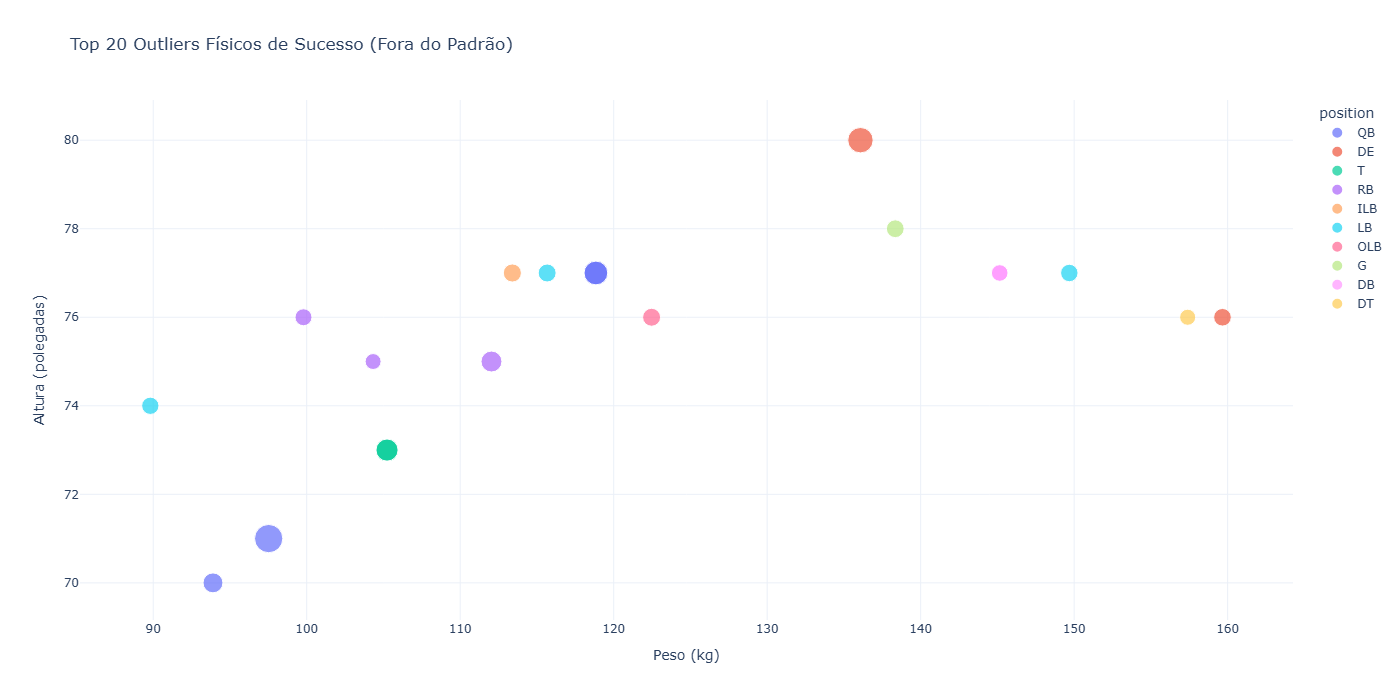
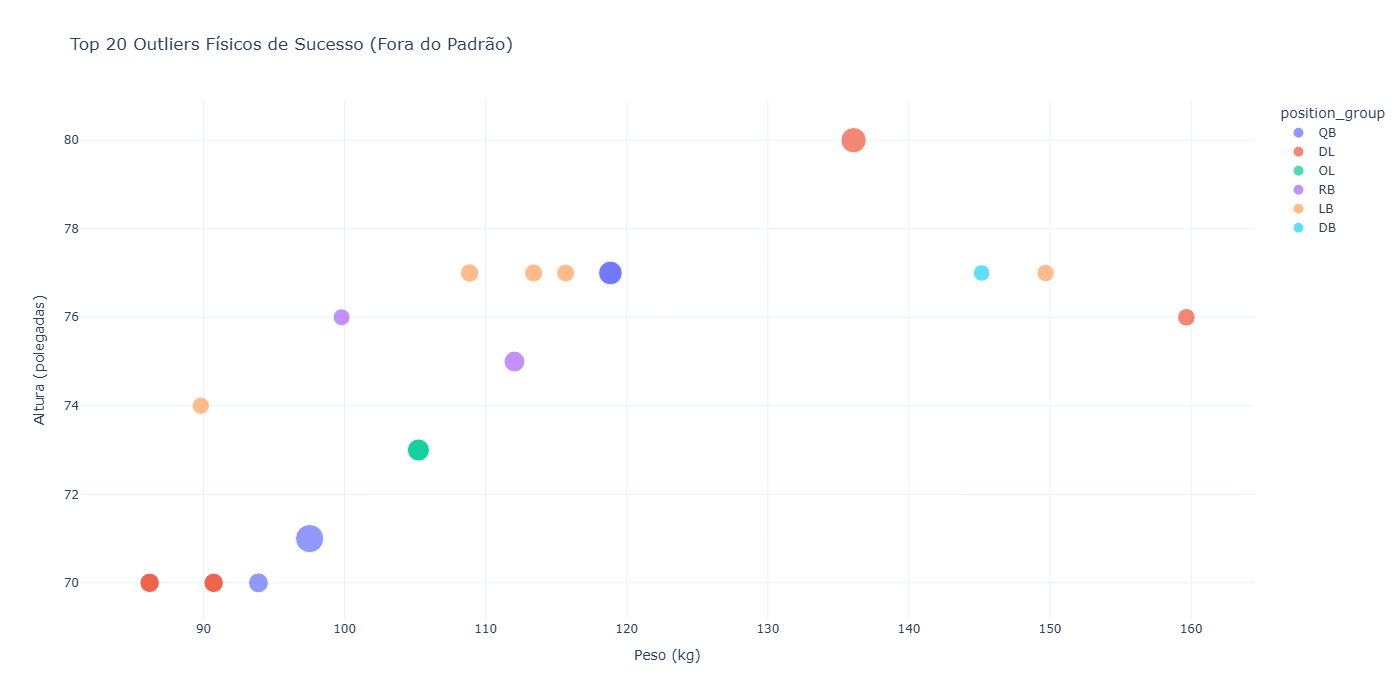
Refactor: Group positions (LB, DB, OL, DL) and update charts

diff --git a/BI/run_analysis.py b/BI/run_analysis.py
@@ -19,31 +19,35 @@ os.makedirs(CHARTS_DIR, exist_ok=True)
 def get_position_group(pos):
     """Maps specific positions to broader groups."""
     groups = {
-        'QB': 'Quarterback',
-        'RB': 'Running Back',
-        'FB': 'Running Back',
-        'WR': 'Receiver',
-        'TE': 'Receiver',
-        'T': 'Lineman',
-        'LT': 'Lineman',
-        'RT': 'Lineman',
-        'G': 'Lineman',
-        'LG': 'Lineman',
-        'RG': 'Lineman',
-        'C': 'Lineman',
-        'DE': 'Lineman',
-        'DT': 'Lineman',
-        'NT': 'Lineman',
-        'LB': 'Linebacker',
-        'ILB': 'Linebacker',
-        'OLB': 'Linebacker',
-        'CB': 'Defensive Back',
-        'S': 'Defensive Back',
-        'FS': 'Defensive Back',
-        'SS': 'Defensive Back',
-        'K': 'Special Teams',
-        'P': 'Special Teams',
-        'LS': 'Special Teams'
+        'QB': 'QB',
+        'RB': 'RB',
+        'FB': 'RB',
+        'WR': 'WR',
+        'TE': 'TE',
+        'T': 'OL',
+        'LT': 'OL',
+        'RT': 'OL',
+        'G': 'OL',
+        'LG': 'OL',
+        'RG': 'OL',
+        'C': 'OL',
+        'OL': 'OL',
+        'DE': 'DL',
+        'DT': 'DL',
+        'NT': 'DL',
+        'DL': 'DL',
+        'LB': 'LB',
+        'ILB': 'LB',
+        'OLB': 'LB',
+        'MLB': 'LB',
+        'CB': 'DB',
+        'S': 'DB',
+        'FS': 'DB',
+        'SS': 'DB',
+        'DB': 'DB',
+        'K': 'ST',
+        'P': 'ST',
+        'LS': 'ST'
     }
     return groups.get(pos, 'Outros')
 
@@ -419,7 +423,7 @@ def generate_position_evolution(df):
     plot_df = df[
         (df['season'].between(2000, 2023)) & 
         (df['weight'].notna()) &
-        (df['position'].isin(['QB', 'RB', 'WR', 'TE', 'LB', 'DE', 'DT', 'CB', 'S']))
+        (df['position_group'].isin(['QB', 'RB', 'WR', 'TE', 'LB', 'DL', 'DB', 'OL']))
     ].copy()
     
     if plot_df.empty:
@@ -427,18 +431,18 @@ def generate_position_evolution(df):
         return
     
     # Calculate average weight by year and position
-    evolution_data = plot_df.groupby(['season', 'position'])['weight_kg'].mean().reset_index()
+    evolution_data = plot_df.groupby(['season', 'position_group'])['weight_kg'].mean().reset_index()
     
     fig = px.line(
         evolution_data,
         x='season',
         y='weight_kg',
-        color='position',
+        color='position_group',
         title='Evolução Física: Como as Posições Mudaram ao Longo do Tempo',
         labels={
             'season': 'Ano do Draft',
             'weight_kg': 'Peso Médio (kg)',
-            'position': 'Posição'
+            'position_group': 'Grupo de Posição'
         },
         markers=True
     )
@@ -511,9 +515,9 @@ def generate_macro_biotype_scatter(df):
     """Gráfico 7: Macro Biotipo (BMI vs w_av)"""
     print("Gerando Macro Biotipo (BMI vs w_av)...")
     
-    target_pos = ['QB', 'WR', 'RB', 'T', 'G', 'C', 'DE', 'DT']
+    target_pos = ['QB', 'WR', 'RB', 'OL', 'DL', 'LB', 'DB']
     plot_df = df[
-        (df['position'].isin(target_pos)) & 
+        (df['position_group'].isin(target_pos)) & 
         (df['bmi'].notna()) & 
         (df['w_av'].notna()) &
         (df['w_av'] > 0) # Filter for players with some value
@@ -527,8 +531,8 @@ def generate_macro_biotype_scatter(df):
         plot_df, 
         x='bmi', 
         y='w_av', 
-        color='position',
-        facet_col='position', 
+        color='position_group',
+        facet_col='position_group', 
         facet_col_wrap=4,
         trendline='ols',
         hover_name='clean_name',
@@ -595,9 +599,9 @@ def generate_height_violin(df):
     """Gráfico 9: Distribuição de Altura por Posição"""
     print("Gerando Violin Plot de Altura...")
     
-    target_pos = ['QB', 'RB', 'WR', 'TE', 'T', 'G', 'C', 'DE', 'DT', 'LB', 'CB', 'S']
+    target_pos = ['QB', 'RB', 'WR', 'TE', 'OL', 'DL', 'LB', 'DB']
     plot_df = df[
-        (df['position'].isin(target_pos)) & 
+        (df['position_group'].isin(target_pos)) & 
         (df['height_in'].notna())
     ].copy()
     
@@ -609,9 +613,9 @@ def generate_height_violin(df):
     plot_df['height_cm'] = plot_df['height_in'] * 2.54
     
     plt.figure(figsize=(16, 8))
-    sns.violinplot(data=plot_df, x='position', y='height_cm', order=target_pos, palette='Set2')
-    plt.title('Distribuição de Altura por Posição', fontsize=16, fontweight='bold')
-    plt.xlabel('Posição', fontsize=12)
+    sns.violinplot(data=plot_df, x='position_group', y='height_cm', order=target_pos, palette='Set2')
+    plt.title('Distribuição de Altura por Grupo de Posição', fontsize=16, fontweight='bold')
+    plt.xlabel('Grupo de Posição', fontsize=12)
     plt.ylabel('Altura (cm)', fontsize=12)
     plt.xticks(rotation=45)
     plt.tight_layout()
@@ -623,9 +627,9 @@ def generate_weight_violin(df):
     """Gráfico 10: Distribuição de Peso por Posição"""
     print("Gerando Violin Plot de Peso...")
     
-    target_pos = ['QB', 'RB', 'WR', 'TE', 'T', 'G', 'C', 'DE', 'DT', 'LB', 'CB', 'S']
+    target_pos = ['QB', 'RB', 'WR', 'TE', 'OL', 'DL', 'LB', 'DB']
     plot_df = df[
-        (df['position'].isin(target_pos)) & 
+        (df['position_group'].isin(target_pos)) & 
         (df['weight_kg'].notna())
     ].copy()
     
@@ -634,9 +638,9 @@ def generate_weight_violin(df):
         return
     
     plt.figure(figsize=(16, 8))
-    sns.violinplot(data=plot_df, x='position', y='weight_kg', order=target_pos, palette='Set2')
-    plt.title('Distribuição de Peso por Posição', fontsize=16, fontweight='bold')
-    plt.xlabel('Posição', fontsize=12)
+    sns.violinplot(data=plot_df, x='position_group', y='weight_kg', order=target_pos, palette='Set2')
+    plt.title('Distribuição de Peso por Grupo de Posição', fontsize=16, fontweight='bold')
+    plt.xlabel('Grupo de Posição', fontsize=12)
     plt.ylabel('Peso (kg)', fontsize=12)
     plt.xticks(rotation=45)
     plt.tight_layout()
@@ -648,9 +652,9 @@ def generate_bmi_ideal_ranges(df):
     """Gráfico 11: BMI Ideal por Posição (Faixas de Sucesso)"""
     print("Gerando BMI Ideal por Posição...")
     
-    target_pos = ['QB', 'RB', 'WR', 'TE', 'T', 'G', 'C', 'DE', 'DT', 'LB']
+    target_pos = ['QB', 'RB', 'WR', 'TE', 'OL', 'DL', 'LB', 'DB']
     plot_df = df[
-        (df['position'].isin(target_pos)) & 
+        (df['position_group'].isin(target_pos)) & 
         (df['bmi'].notna()) & 
         (df['w_av'].notna()) &
         (df['w_av'] > 0)
@@ -665,21 +669,21 @@ def generate_bmi_ideal_ranges(df):
     plot_df['success'] = plot_df['w_av'].apply(lambda x: 'Estrela' if x >= percentiles[0.75] else 'Regular')
     
     # Calculate BMI ranges for stars
-    bmi_ranges = plot_df[plot_df['success'] == 'Estrela'].groupby('position')['bmi'].agg(['mean', 'std', 'min', 'max']).reset_index()
+    bmi_ranges = plot_df[plot_df['success'] == 'Estrela'].groupby('position_group')['bmi'].agg(['mean', 'std', 'min', 'max']).reset_index()
     
     fig = go.Figure()
     
     for _, row in bmi_ranges.iterrows():
         fig.add_trace(go.Box(
             y=[row['min'], row['mean'] - row['std'], row['mean'], row['mean'] + row['std'], row['max']],
-            name=row['position'],
+            name=row['position_group'],
             boxmean='sd'
         ))
     
     fig.update_layout(
-        title='IMC Ideal por Posição (Baseado em Estrelas)',
+        title='IMC Ideal por Grupo de Posição (Baseado em Estrelas)',
         yaxis_title='IMC',
-        xaxis_title='Posição',
+        xaxis_title='Grupo de Posição',
         template='plotly_white',
         height=600
     )
@@ -710,9 +714,9 @@ def generate_scatter_matrix(df):
     plot_df['height_cm'] = plot_df['height_in'] * 2.54
     
     # Create pairplot
-    pairplot_data = plot_df[['height_cm', 'weight_kg', 'w_av', 'position']]
+    pairplot_data = plot_df[['height_cm', 'weight_kg', 'w_av', 'position_group']]
     
-    g = sns.pairplot(pairplot_data, hue='position', diag_kind='kde', plot_kws={'alpha': 0.6}, height=3)
+    g = sns.pairplot(pairplot_data, hue='position_group', diag_kind='kde', plot_kws={'alpha': 0.6}, height=3)
     g.fig.suptitle('Scatter Matrix: Altura x Peso x WAV', y=1.02, fontsize=16, fontweight='bold')
     plt.tight_layout()
     plt.savefig(f'{CHARTS_DIR}/12_scatter_matrix.png', dpi=300)
@@ -735,8 +739,8 @@ def generate_physical_outliers(df):
         return
     
     # Calculate z-scores for height and weight by position
-    plot_df['height_z'] = plot_df.groupby('position')['height_in'].transform(lambda x: np.abs(stats.zscore(x)))
-    plot_df['weight_z'] = plot_df.groupby('position')['weight_kg'].transform(lambda x: np.abs(stats.zscore(x)))
+    plot_df['height_z'] = plot_df.groupby('position_group')['height_in'].transform(lambda x: np.abs(stats.zscore(x)))
+    plot_df['weight_z'] = plot_df.groupby('position_group')['weight_kg'].transform(lambda x: np.abs(stats.zscore(x)))
     
     # Define outliers as those with z-score > 2 in either dimension
     outliers = plot_df[(plot_df['height_z'] > 2) | (plot_df['weight_z'] > 2)].copy()
@@ -753,7 +757,7 @@ def generate_physical_outliers(df):
         x='weight_kg',
         y='height_in',
         size='w_av',
-        color='position',
+        color='position_group',
         hover_name='clean_name',
         hover_data=['position', 'w_av', 'height_in', 'weight_kg'],
         title='Top 20 Outliers Físicos de Sucesso (Fora do Padrão)',
